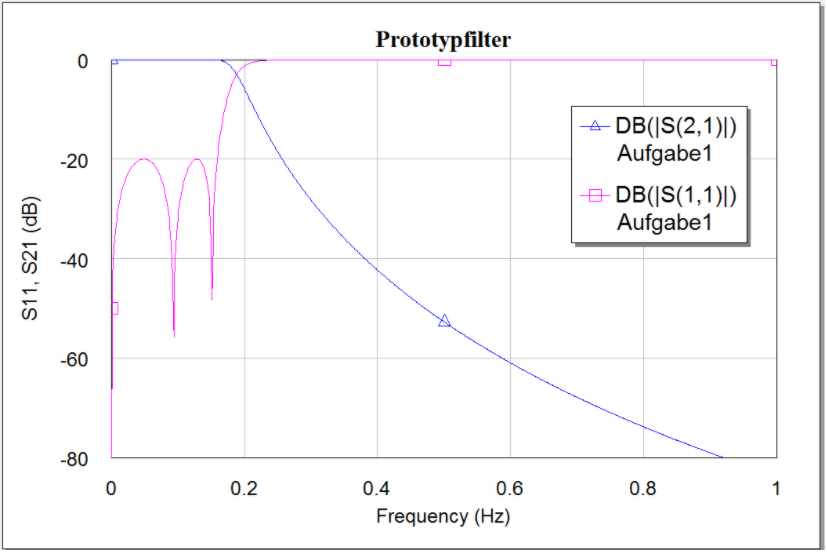
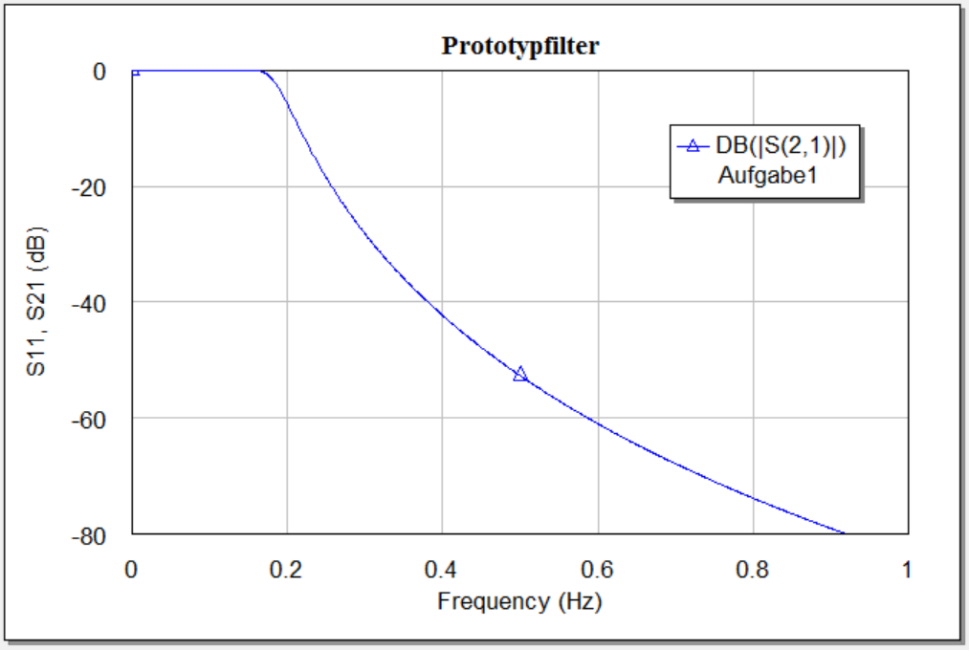
Filterspezifikation ready

diff --git a/sections/umsetzung/filterspezifikation.tex b/sections/umsetzung/filterspezifikation.tex
@@ -30,7 +30,9 @@ g_6 & = & 1 \\
 \end{equation*} 
 \end{mdframed}
 
-Durch eine Simulation in Mirowave Office (MWO) kann gezeigt werden, dass es sich beim Prototypfilter um ein Chebyshev Filter des Typs 1 handelt, weil das Filter im Passband einen Equirippel und im Stopband keinen Rippel aufweist. Dies wird aus der Übersichtdarstellung in Abb. \ref{fig:Ovw_Prototyp} ersichtlich, wo gleichzeitig die Einfügedämpfung S21 und die Reflexion S11 des simulierten Prototypfilters zu sehen ist.
+Durch eine Simulation in Mirowave Office (MWO) kann gezeigt werden, dass es sich beim Prototypfilter um ein Chebyshev Filter des Typs 1 handelt, weil das Filter im Passband einen Equirippel und im Stopband keinen Rippel aufweist. 
+
+Die Übersichtsdarstellung der Eingügedämpfung S21 (Abb. \ref{fig:Ovw_Prototyp}) zeigt, dass das Filter keinen Stopbandrippel aufweist.
 
 \begin{figure}[h!]
 \centering
@@ -39,7 +41,7 @@ Durch eine Simulation in Mirowave Office (MWO) kann gezeigt werden, dass es sich
  	\label{fig:Ovw_Prototyp}
 \end{figure}
 
-Durch einen Zoom der Einfügedämpfung S21 in Abb. \ref{fig:Prototyp_Passbandrippel} wird der Equirippel des Passbands, sowie die erwartete Grenzfrequenz von $\omega_C = 1$  ersichtlich.
+Erst die Detailanssicht der Einfügedämpfung S21 in Abb. \ref{fig:Prototyp_Passbandrippel} zeigt, dass das Prototypfilter im Passband auch noch einen kleinen Equirippel aufweist. Ausserdem zeigt sich aus der Detailansicht, dass das Filter wie er erwartete eine Grenzfrequenz von $\omega_C = 1$ aufweist.
 
 \begin{mdframed}
 \begin{equation*} 
@@ -58,7 +60,39 @@ f_C & = & 0.1592 Hz \\
  	\label{fig:Prototyp_Passbandrippel}
 \end{figure}
 
-Der vollständigkeit halber, wird auch noch die Reflexion S11 in Abb. 
+Ein verlustloses Filter lässt sich nicht nur mit der Einfgedämpfung S21 sondern auch mit der Reflexion S11 beschreiben, weil der folgende Zusammenhang gilt:
+
+\begin{equation}
+{|S11|}^2 + {|S21|}^2 = 1
+\end{equation}
+
+Somit kann die Reflexion im Passband mithilfe des Equirippels im Passband berechnet werden.
+
+\begin{equation}
+|S11| = \sqrt{1-{|Equirippel|}^2} = -20 dB
+\end{equation}
+
+Um das Resultat zu validieren, wurde die Reflexion S11 des Filter simuliert und in Abb. \ref{fig:Prototyp_Reflexion} dargestellt.
+
+\begin{figure}[h!]
+\centering
+ 	\includegraphics[width=0.5\textwidth]{Prototyp_Reflexion.png}
+ 	\caption{Reflexion in Passband}
+ 	\label{fig:Prototyp_Reflexion}
+\end{figure}
+
+Es handelt sich beim zu realisierenden Stubfilter um ein Chebyshev Filter des Typ 1 mit folgenden Eigeschaften: 
+\begin{mdframed}
+\begin{equation*} 
+\begin{array}{cllll} 
+f_C & = & 0.8 GHz \\ 
+f_\frac{\lambda}{4} & = & 2 GHz \\ 
+l & = & 37.5mm \\
+Equirippel (Passband) & = & -0.004355 dB \\
+Reflexion (Passband) & = & -20 dB \\
+\end{array} 
+\end{equation*} 
+\end{mdframed}
 
 
-Beim zu realisierende Stubfilter soll von einem Prototyp-Filter mit den folgenden Elementwerten ausgegange werden.
+

diff --git a/sections/umsetzung.tex b/sections/umsetzung.tex
@@ -1,6 +1,6 @@
 \section{Umsetzung}
 
-In diesem Kapitel wird anhand eines konkreten Beispiels gezeigt, welche Schritte notwendig sind um von einer gegebenen Filterspezifikation zu einem realisierbaren Stubfilter zu gelangen. 
+In diesem Kapitel wird anhand eines konkreten Beispiels gezeigt, welche Schritte notwendig sind um von einer gegebenen Filterspezifikation zu einem realisierbaren Stubfilter zu gelangen.
 
 \input{sections/umsetzung/filterspezifikation}
 \input{sections/umsetzung/richards-frequenztransformation}
